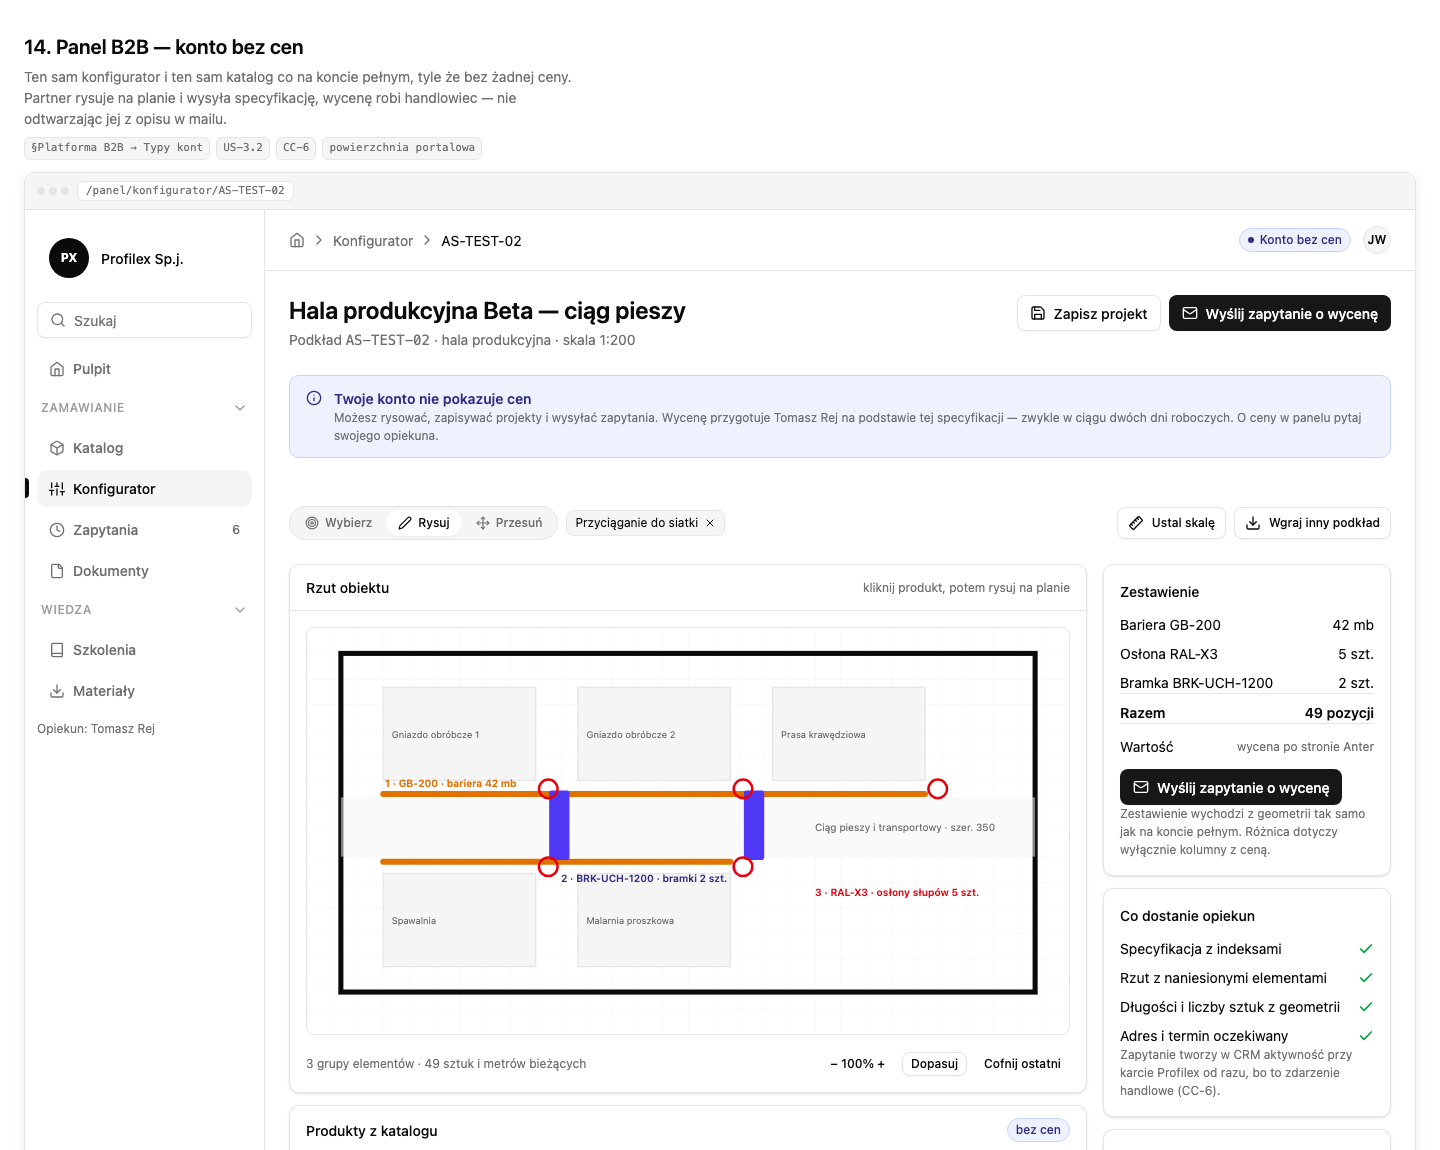
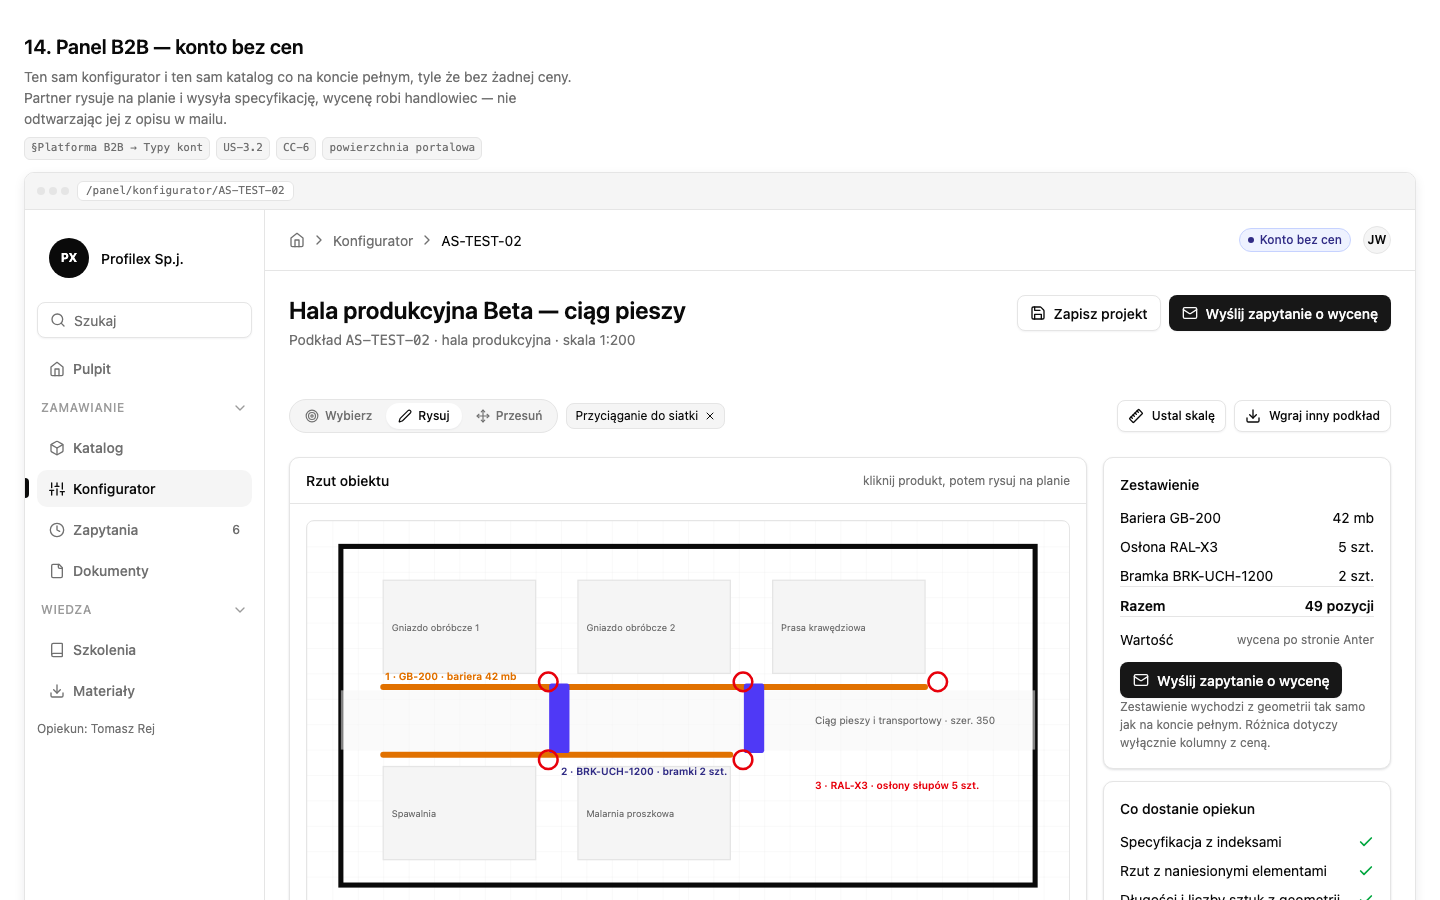
docs: prototyp Anter - usun komunikat o braku cen z konfiguratora
Ekran 14: pasek narzedzi idzie teraz wprost pod naglowek. Odznaka 'Konto
bez cen' w pasku gornym i brak kolumny cenowej wystarcza; osobny alert
powtarzal to, co i tak widac, przy kazdym wejsciu do konfiguratora.
Komunikat w katalogu (ekran 45) zostaje - tam partner trafia najpierw.

diff --git a/.ai/prototypes/anter-system-etapy/index.html b/.ai/prototypes/anter-system-etapy/index.html
@@ -2105,14 +2105,6 @@
             </div>
           </div>
 
-          <div class="alert alert-info">
-            <svg><use href="#ic-info"/></svg>
-            <div>
-              <div class="alert-title">Twoje konto nie pokazuje cen</div>
-              <p class="t-hint" style="margin:0">Możesz rysować, zapisywać projekty i wysyłać zapytania. Wycenę przygotuje Tomasz Rej na podstawie tej specyfikacji — zwykle w ciągu dwóch dni roboczych. O ceny w panelu pytaj swojego opiekuna.</p>
-            </div>
-          </div>
-
           <div class="dt-toolbar" style="border:0;padding-top:0.75rem">
             <div class="dt-toolbar-row">
               <div class="segmented" role="group" aria-label="Narzędzie">
